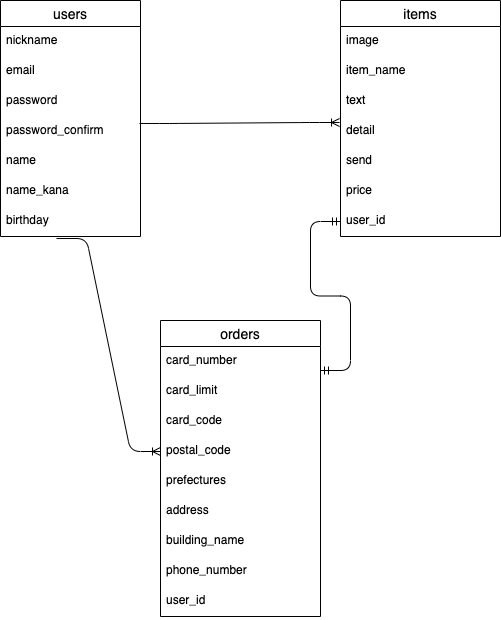
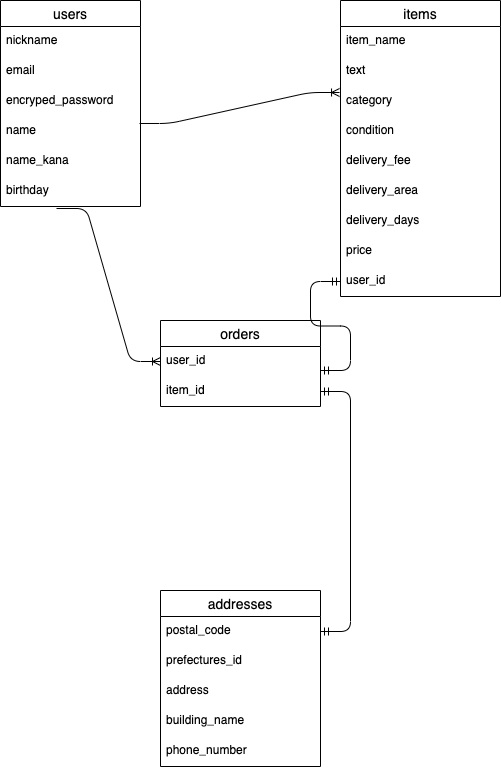
データベース設計の修正

diff --git a/README.md b/README.md
@@ -6,16 +6,15 @@
 | ----------------  | --------- | -----------  |
 | nickname          | string    | null: false  |
 | email             | string    | null: false  |
-| password          | string    | null: false  |
-| password_confirm  | string    | null: false  |
+| encrypted_password| string    | null: false  |
 | name              | string    | null: false  |
 | name_kana         | string    | null: false  |
-| birthday          | integer   | null: false  |
+| birthday          | date      | null: false  |
 
 ###Association
 
-- has_many :item
-- has_many :order
+- has_many :items
+- has_many :orders
 
 ## itemsテーブル
 
@@ -23,8 +22,11 @@
 | ----------------  | --------- | -----------  |
 | item_name         | string    | null: false  |
 | text              | text      | null: false  |
-| detail            | string    | null: false  |
-| send              | string    | null: false  |
+| category          | integer   | null: false  |
+| condition         | integer   | null: false  |
+| delivery_fee      | integer   | null: false  |
+| delivery_area     | integer   | null: false  |
+| delivery_days     | integer   | null: false  |
 | price             | integer   | null: false  |
 | user              | references| null: false, foreign_key: true  |
 
@@ -37,18 +39,23 @@
 
 | Column            |  Type     | Options      |
 | ----------------  | --------- | -----------  |
-| card_number       | string    | null: false  |
-| card_limit        | string    | null: false  |
-| card_code         | string    | null: false  |
-| postal_code       | string    | null: false  |
-| prefectures       | string    | null: false  |
-| address           | string    | null: false  |
-| building_name     | string    | null: false  |
-| phone_number      | string    | null: false  |
 | user              | references| null: false, foreign_key: true  |
+| item              | references| null: false, foreign_key: true  |
 
 ###Association
 
 - belongs_to :user
 - belongs_to :item
+
+## addresses
+
+| Column            |  Type     | Options      |
+| ----------------  | --------- | -----------  |
+| postal_code       | string    | null: false  |
+| prefectures_id    | integer   | null: false  |
+| address           | string    | null: false  |
+| building_name     | string    |              |
+| phone_number      | string    | null: false  |
+
+- belongs_to :order
 
